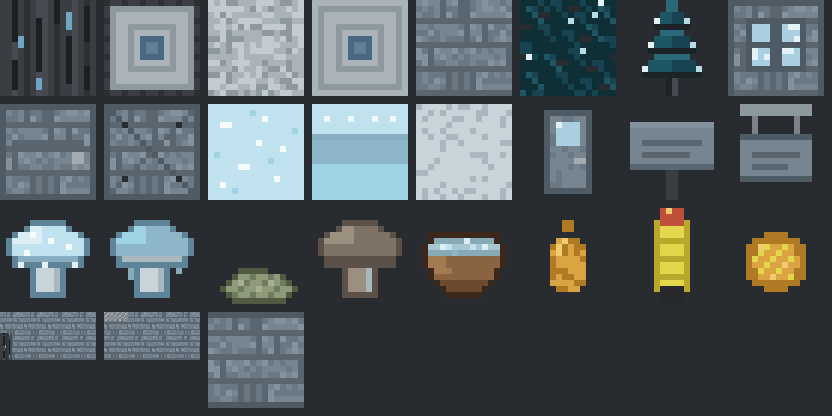
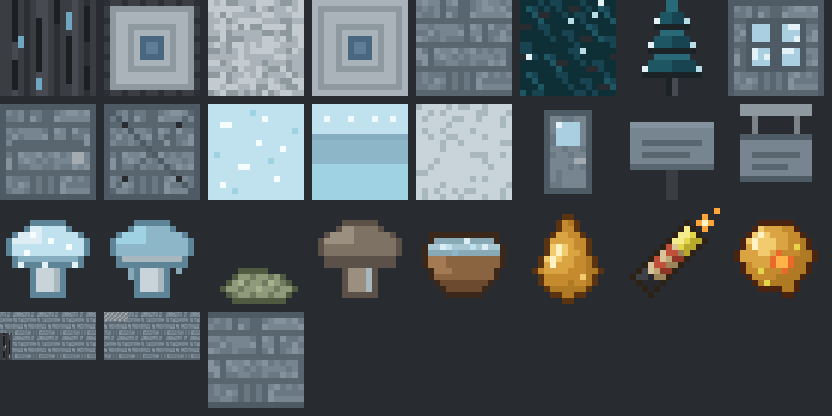
fix(flora): redraw resin, Sulfur Igniter and Thermal Binder in vanilla style
Resin is now an outlined amber teardrop with a highlight. The igniter is a
diagonal paper cartridge with a coal butt, twine bands, a sulfur head and a
spark. The binder is a glossy resin glob with a glowing core and sulfur
flecks.

Changed region(s): [[0.75, 0.5, 1.0, 0.7188], [0.625, 0.5, 0.7188, 0.75]]

diff --git a/docs/art/cold-flora/make_cold_flora.py b/docs/art/cold-flora/make_cold_flora.py
@@ -23,7 +23,10 @@ P = {k: tuple(bytes.fromhex(v)) for k, v in dict(
     spot='f6fdff', mush0='8e9a7a', mush1='6f7b5e', mush2='a7b08f', resin0='d9a441', resin1='b07a24', resin2='f1cb6d',
     sulf0='e3d64a', sulf1='b8a92d', coal='26282b', red='c0503a', bowl0='6b4a2f', bowl1='8a6340', stew0='a9c7d3', stew1='88a9b6',
     metal='7b8389', metal2='a4acb2', frame='4f5b64', glass='a9cfe0',
-    capline='5d8597', capdark='86aec0', bowlline='3b281a', bowl2='a37a52', shootline='1b2326', teal3='2a6a78', mushline='4f5a40', dryline='5b5148', dry0='9b8f7f', dry1='7d7264').items()}
+    capline='5d8597', capdark='86aec0', bowlline='3b281a', bowl2='a37a52', shootline='1b2326', teal3='2a6a78', mushline='4f5a40', dryline='5b5148', dry0='9b8f7f', dry1='7d7264',
+    resin3='c68a2e', resinhi='fff3c4', resinline='5a3410', binderline='4a2410', heat0='e8692a', heat1='ffb347',
+    sulf2='f4ec8a', coal2='3e4146', red2='8f3526', paper0='d9c39a', paper1='bfa678', paper2='9c845a', igniteline='2e2216',
+    spark0='fff6c8', spark1='ffa53a').items()}
 CLEAR = (0, 0, 0, 0)
 
 
@@ -260,30 +263,68 @@ def stew():
     for x, y, c in ((4, 6, 'cap0'), (5, 6, 'cap1'), (8, 5, 'cap0'), (9, 6, 'cap1'), (11, 6, 'cap0'), (6, 7, 'gill')): put(im, x, y, c)
     return im
 
+def outline(im, line):
+    """Rings every filled pixel with {@code line} on its open sides, as vanilla item art is outlined."""
+    filled = {(x, y) for y in range(im.height) for x in range(im.width) if im.getpixel((x, y))[3]}
+    for x, y in filled:
+        for nx, ny in ((x + 1, y), (x - 1, y), (x, y + 1), (x, y - 1)):
+            if (nx, ny) not in filled: put(im, nx, ny, line)
+    return im
+
+
+def tone(x, y, cx, cy, r, tones):
+    """Picks a tone lit from the top left: lightest toward the upper left of the shape, darkest toward the lower right."""
+    lit = math.hypot(x + .5 - (cx - r * .45), y + .5 - (cy - r * .45)) / (r * 1.6)
+    return tones[min(len(tones) - 1, int(lit * len(tones)))]
+
+
 def resin():
+    """A glossy amber teardrop of sap with a trapped bubble, like a vanilla honey or slime item."""
     im = img()
-    for y in range(3, 14):
-        for x in range(4, 12):
-            if math.hypot((x - 7.5) / 3.5, (y - 9) / 5) < 1: put(im, x, y, 'resin0' if noise(x, y, 'rs') < 160 else 'resin1')
-    put(im, 6, 6, 'resin2'); put(im, 6, 7, 'resin2'); put(im, 7, 5, 'resin2'); rect(im, 7, 2, 8, 3, 'resin1')
+    for y in range(1, 15):
+        cy = y + .5
+        r = 4.6 * math.sqrt(max(0, 1 - ((cy - 10) / 4.6) ** 2)) if cy >= 10 else 4.6 * ((cy - 1.5) / 8.5) ** .8
+        for x in range(16):
+            if abs(x + .5 - 8) < r: put(im, x, y, tone(x, y, 8, 9.5, 4.6, ['resin2', 'resin0', 'resin3', 'resin1']))
+    outline(im, 'resinline')
+    for x, y in ((6, 6), (5, 8), (5, 9), (6, 7)): put(im, x, y, 'resinhi')
+    put(im, 10, 11, 'resin2'); put(im, 9, 12, 'resin3'); put(im, 10, 12, 'resin3')
     return im
 
 
 def igniter():
+    """A paper-wrapped sulfur cartridge, held diagonally like a vanilla rod: coal butt, twine bands, sulfur head, a spark."""
     im = img()
-    rect(im, 5, 2, 10, 13, 'sulf0'); rect(im, 5, 2, 5, 13, 'sulf1'); rect(im, 10, 2, 10, 13, 'sulf1')
-    rect(im, 6, 0, 9, 2, 'red'); put(im, 7, 0, 'resin2'); rect(im, 6, 13, 9, 15, 'coal')
-    for y in (5, 8, 11): rect(im, 6, y, 9, y, 'sulf1')
+    x0, y0 = 3, 12
+    for y in range(16):
+        for x in range(16):
+            t, s = (x - x0) - (y - y0), (x - x0) + (y - y0)
+            if not (0 <= t <= 16 and -2 <= s <= 2): continue
+            side = 0 if s < 0 else 1 if s == 0 else 2
+            if t <= 2: c = ('coal2', 'coal', 'coal')[side]
+            elif t >= 12: c = ('sulf2', 'sulf0', 'sulf1')[side]
+            elif t in (5, 6, 9, 10): c = ('red', 'red', 'red2')[side]
+            else: c = ('paper0', 'paper1', 'paper2')[side]
+            put(im, x, y, c)
+    outline(im, 'igniteline')
+    for x, y, c in ((13, 1, 'spark1'), (12, 2, 'spark1'), (14, 2, 'spark1'), (13, 3, 'spark1'), (13, 2, 'spark0'), (15, 0, 'spark1')):
+        put(im, x, y, c)
     return im
 
 
 def binder():
+    """A warm, sticky glob of resin and sulfur, magma-cream style: amber body, glowing seams, yellow flecks, one drip."""
     im = img()
-    for y in range(3, 14):
-        for x in range(2, 14):
-            d = math.hypot((x - 7.5) / 5.5, (y - 8.5) / 5)
-            if d < 1: put(im, x, y, ('sulf0' if (x + y) % 3 == 0 else 'resin0') if d < .7 else 'resin1')
-    for x, y in ((5, 6), (9, 9), (7, 11)): put(im, x, y, 'resin2')
+    for y in range(2, 15):
+        for x in range(1, 15):
+            d = math.hypot((x + .5 - 8) / 5.6, (y + .5 - 8) / 5.2)
+            drip = x in (9, 10) and 12 <= y <= 13
+            if d < 1 or drip: put(im, x, y, tone(x, y, 8, 8, 5.4, ['resin2', 'resin0', 'resin3', 'resin1']))
+    outline(im, 'binderline')
+    for x, y in ((8, 8), (9, 8), (8, 9), (9, 9)): put(im, x, y, 'heat1')
+    for x, y in ((7, 8), (8, 7), (10, 9), (9, 10), (7, 9), (10, 8)): put(im, x, y, 'heat0')
+    for x, y in ((5, 10), (11, 6), (6, 12)): put(im, x, y, 'sulf0')
+    for x, y in ((4, 5), (5, 4), (4, 6)): put(im, x, y, 'resinhi')
     return im
 
 
